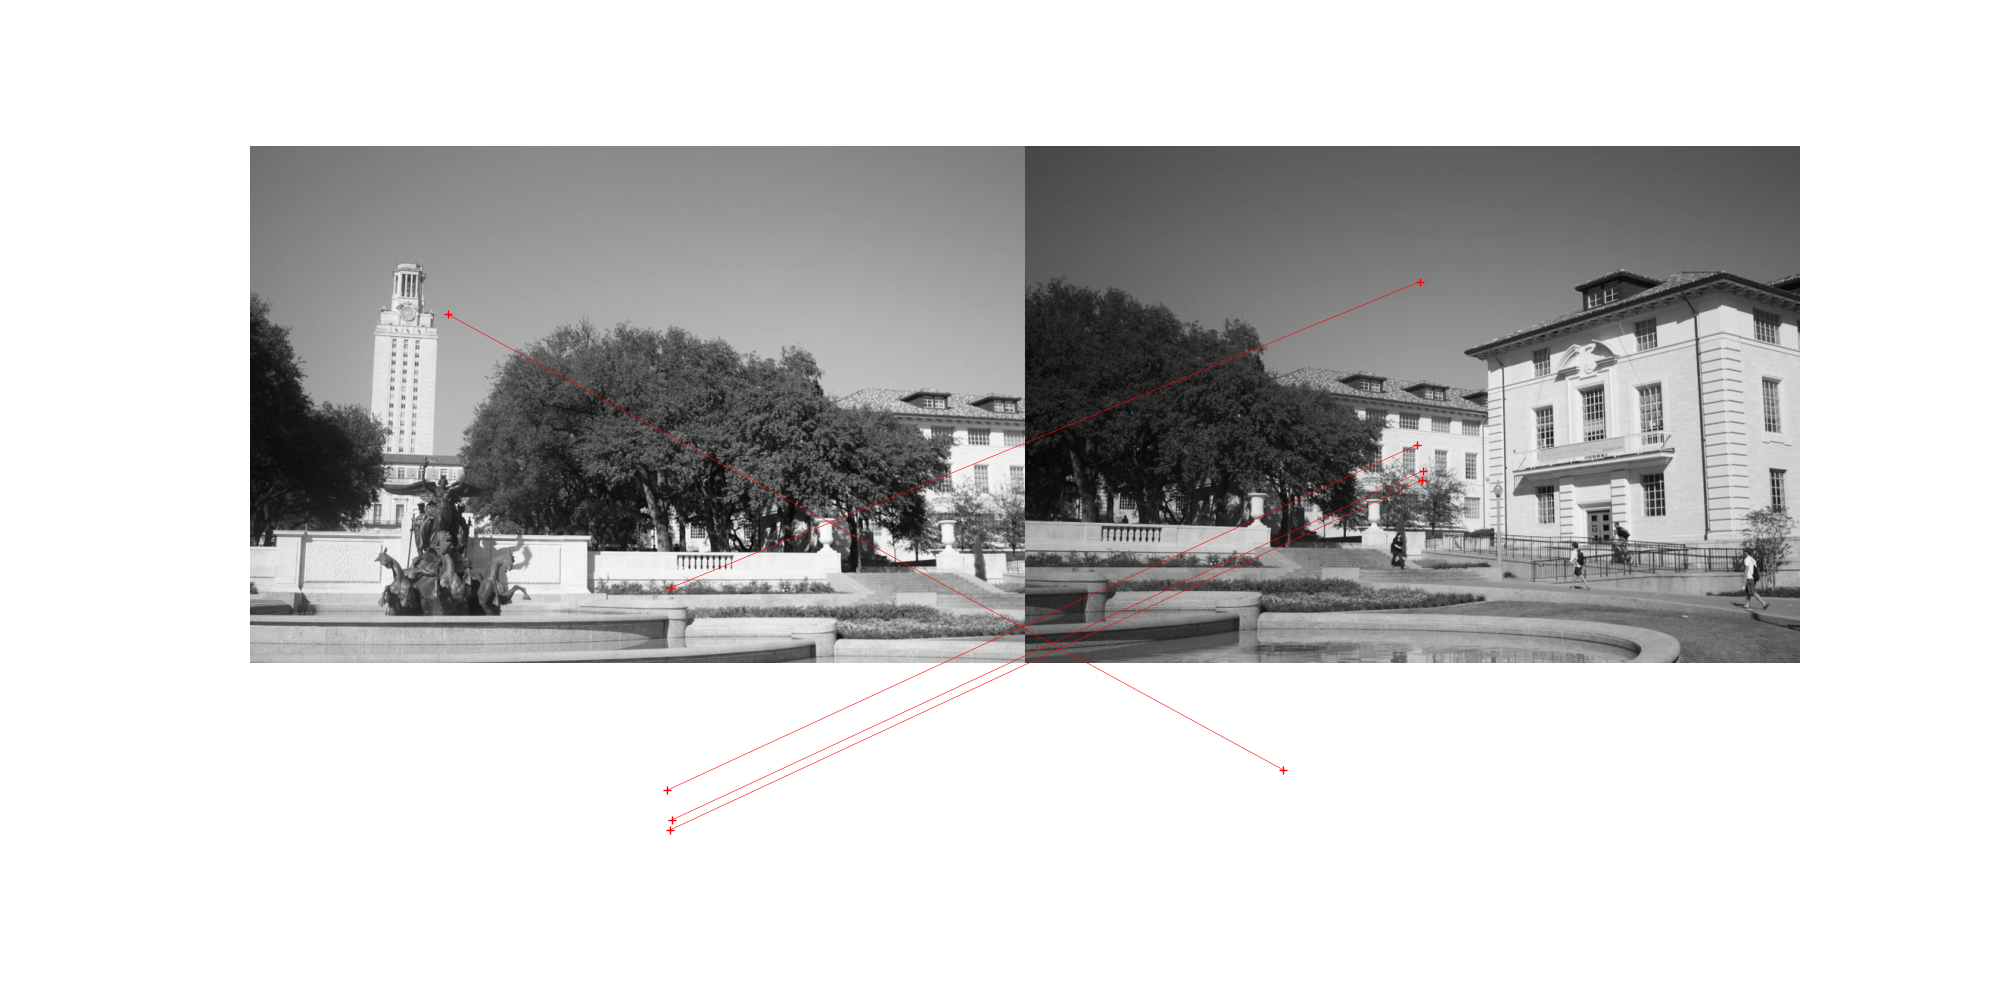
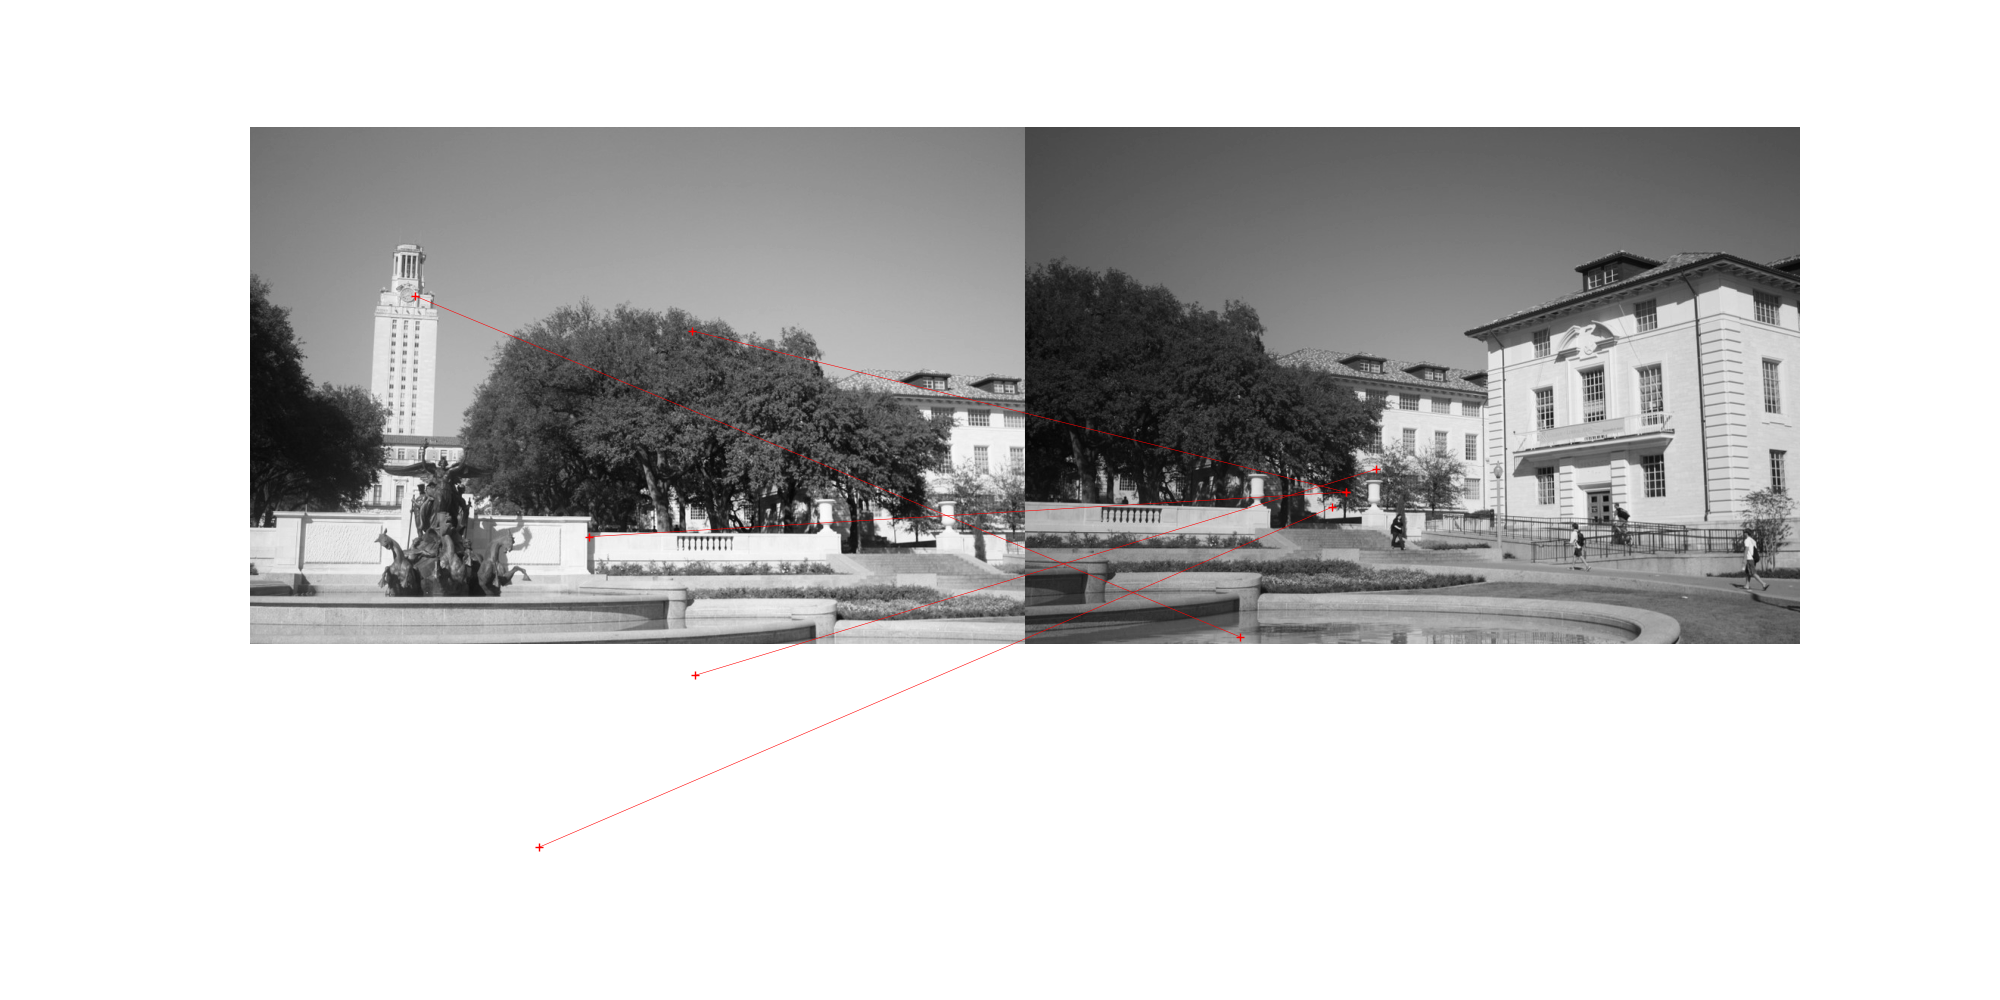
changes

Changed region(s): [[0.124, 0.248, 0.899, 0.682], [0.124, 0.124, 0.899, 0.155]]

diff --git a/assignment3/part1/image_stitcher.py b/assignment3/part1/image_stitcher.py
@@ -5,10 +5,11 @@ import torch
 import kornia
 import cv2
 import torch.nn.functional as F
-from helpers import plot_inlier_matches, harris, get_pixel_descriptors
+from helpers import plot_inlier_matches, harris, get_pixel_descriptors, get_hynet_descriptors
 import matplotlib.pyplot as plt
 from skimage.transform import ProjectiveTransform, warp
 from scipy.ndimage import gaussian_filter
+from torchvision import models
 
 
 
@@ -33,7 +34,7 @@ class ImageStitcher(object):
     filtering = True
     if filtering:
       # Create the Gaussian filter parameters
-      sigma = 0
+      sigma = 1.5
 
       # Apply Gaussian filter to both images 
       im_gauss_filt_left = gaussian_filter(self.img1.squeeze(), sigma=sigma) # squeeze is gonna remobve 1,1
@@ -49,18 +50,21 @@ class ImageStitcher(object):
     self.desc1 = self._get_descriptors(im_gauss_filt_left, self.keypoints1)
     self.desc2 = self._get_descriptors(im_gauss_filt_right, self.keypoints2)
 
+    print("Descriptors", self.desc1)
+
     # Compute putative matches and match the keypoints.
     matched_keypoints = self._get_putative_matches(self.keypoints1, self.keypoints2, self.desc1, self.desc2)
-    print("Length of matched keypoints", matched_keypoints.size())
 
     # Perform RANSAC to find the best homography and inliers
-    best_inliers, best_homography, _ = self._ransac(matched_keypoints)
+    best_inliers, best_homography, mean_residual = self._ransac(matched_keypoints)
 
-    print("best ones", best_inliers)
+    print("Number of inliers", len(best_inliers))
+
+    print("Mean Residual", mean_residual)
 
     self._visualize_inliers(self.img1, self.img2, matched_keypoints, best_inliers)
 
-    # `best_inliers` is a boolean mask; retrieve the indices of inliers
+    # Retrieve the indices of inliers
     inlier_indices = torch.where(best_inliers)[0]  # Get indices where inliers are True
 
     # Now, filter `matched_keypoints` using inlier indices
@@ -77,24 +81,15 @@ class ImageStitcher(object):
     plt.savefig(f'inlier_matches_{self.descriptor_type}.png')
 
     # Refit with all inliers to get the final homography
-    #final_homography = None 
-    stitched = self.stitch_images_new(img1, img2, best_homography) 
+    stitched = self.stitch_images(img1, img2, best_homography) 
 
     plt.gray()
     plt.savefig('stitched_%s.png' % self.descriptor_type)
 
-  def _get_keypoints(self, img):
-    """
-    Extract keypoints from the image.
+    plt.imshow(stitched, cmap='gray')
+    plt.axis('off')  # Turn off axis labels
+    plt.show()  # Display the image
 
-    Inputs:
-        img: h x w tensor.
-    Outputs:
-        keypoints: N x 2 numpy array.
-    """
-    keypoints = harris(img) 
-    return keypoints
-  
   def _get_keypoints(self, img):
     # Get Harris responses
     keypoints = harris(img)
@@ -136,30 +131,32 @@ class ImageStitcher(object):
     if self.descriptor_type == 'pixel':
       descriptors = get_pixel_descriptors(image, keypoints) 
     elif self.descriptor_type == 'hynet':
-      descriptors = None
-
+      # Load a pre-trained model
+      model = models.resnet18(pretrained=True)
+      # Remove the last layer to obtain features
+      model = torch.nn.Sequential(*(list(model.children())[:-1]))
+      descriptors = get_hynet_descriptors(image, keypoints, model)
+      
     # Convert the list of numpy array to numpy array first, then to torch tensor
     desc = np.array(descriptors)
 
     # Now convert the numpy arrays to torch tensors
     descriptors = torch.tensor(desc)
-
+    print("shape", descriptors.shape)
     return descriptors
 
   def _get_putative_matches(self, keypoints1, keypoints2, desc1, desc2, max_num_matches=500):
     distances = torch.cdist(desc1, desc2, p=2).cpu().numpy()
     
     # Add distance threshold
-    max_distance = 0.7  # Adjust this threshold
+    max_distance = 0.6
     
-    # Add ratio test
     matches = []
     for i in range(distances.shape[0]):
         # Get the two closest matches
         dist_i = distances[i, :]
         closest_two = np.partition(dist_i, 1)[:2]
         
-        # Apply ratio test
         if closest_two[0] < 0.75 * closest_two[1] and closest_two[0] < max_distance:
             j = np.argmin(dist_i)
             matches.append([
@@ -168,6 +165,7 @@ class ImageStitcher(object):
             ])
             
     matches = matches[:max_num_matches]
+
     return torch.tensor(matches)
       
   def _homography_inliers(self, H, matched_keypoints, inlier_threshold=10):
@@ -190,7 +188,6 @@ class ImageStitcher(object):
     inliers = distances < inlier_threshold ** 2
 
     return inliers, distances[inliers]
-
 
   def _visualize_inliers(self, img_left, img_right, matched_keypoints, inliers):
     """
@@ -241,6 +238,17 @@ class ImageStitcher(object):
   def _get_homography(self, matched_keypoints):
 
     matched_keypoints = matched_keypoints.float()
+
+    # Check the shape
+    if matched_keypoints.dim() == 1:
+        print("Reshaping matched_keypoints to 2D")
+        matched_keypoints = matched_keypoints.unsqueeze(0)  # Reshape to 2D if necessary
+
+    print("Shape of matched_keypoints:", matched_keypoints.shape)
+
+    # Ensure that matched_keypoints has the correct dimensions
+    if matched_keypoints.shape[1] != 4:
+        raise ValueError("Expected matched_keypoints to have shape [N, 4]")
 
     # Normalize coordinates
     p1 = matched_keypoints[:, :2]
@@ -319,13 +327,12 @@ class ImageStitcher(object):
       
       # Recompute homography using all inliers
       if best_inliers is not None and best_inliers.sum() >= 4:
-          print("Here!!")
           inlier_matches = matched_keypoints[best_inliers]
           best_homography = self._get_homography(inlier_matches)
       
       return best_inliers, best_homography, mean_residual
   
-  def stitch_images_new(self, img1, img2, H):
+  def stitch_images(self, img1, img2, H):
     # Convert tensors to numpy arrays
     img1_np = kornia.utils.tensor_to_image(img1.squeeze())  # Remove batch and channel dims
     img2_np = kornia.utils.tensor_to_image(img2.squeeze())

diff --git a/assignment3/part1/helpers.py b/assignment3/part1/helpers.py
@@ -4,6 +4,11 @@ from scipy import signal
 from scipy import *
 import numpy as np
 from PIL import Image
+import numpy as np
+import cv2 
+import torch
+import torchvision.transforms as transforms
+
 ##############################################
 ### Provided code - nothing to change here ###
 ##############################################
@@ -42,7 +47,7 @@ Reference   (Code adapted from):
 """
 
 
-def harris(img, min_distance=10, threshold=0.1):
+def harris(img, min_distance=6, threshold=0.06):
   """
   image: h x w tensor (grayscale image). (It was filename before: Path of image file)
   threshold: (optional)Threshold for corner detection
@@ -183,5 +188,47 @@ def get_pixel_descriptors(image, keypoints, neighborhood_size=5):
             descriptors.append(descriptor)
 
     return descriptors
+
+def get_hynet_descriptors(image, keypoints, model):
+  descriptors = []
+
+  transform = transforms.Compose([
+      transforms.ToPILImage(),
+      transforms.Resize((224, 224)),
+      transforms.ToTensor(),
+      transforms.Normalize(mean=[0.485, 0.456, 0.406], std=[0.229, 0.224, 0.225])
+  ])
+
+  for kp in keypoints:
+      y, x, _ = kp
+      y = int(y)
+      x = int(x)
+
+      neighborhood_size = 224
+      half_size = neighborhood_size // 2
+      
+      if (y - half_size >= 0 and y + half_size < image.shape[0] and 
+          x - half_size >= 0 and x + half_size < image.shape[1]):
+          neighborhood = image[y-half_size:y+half_size+1, x-half_size:x+half_size+1]
+          
+          if len(neighborhood.shape) == 2:  # Convert grayscale to RGB
+              neighborhood = np.stack([neighborhood]*3, axis=-1)
+
+          neighborhood = transform(neighborhood)
+          neighborhood = neighborhood.unsqueeze(0)
+          
+          with torch.no_grad():
+              model.eval()
+              features = model(neighborhood)
+              
+          descriptor = features.flatten().cpu().numpy()
+          descriptors.append(descriptor)
+
+  # Stack descriptors into a 2D NumPy array
+  descriptors = np.vstack(descriptors) if descriptors else np.empty((0, model.fc.out_features))
+
+  return descriptors
+
+
 
 
